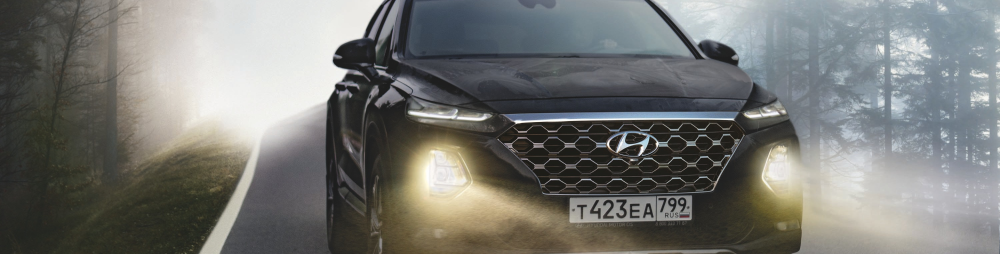
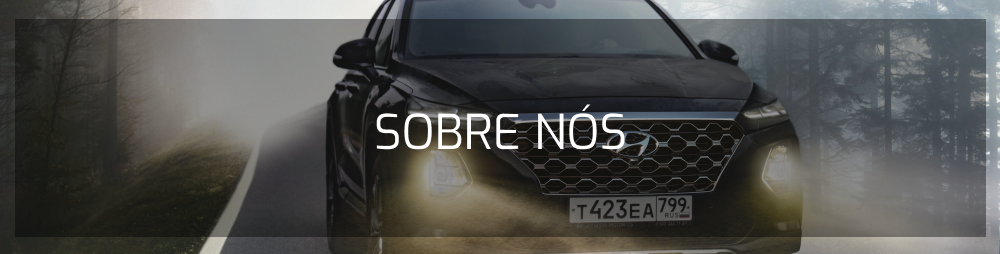
Add files via upload

diff --git a/sobre.html b/sobre.html
@@ -37,10 +37,14 @@
         </div>
     </header>
 
-    <div class="banner">
+    <!--<div class="banner">
         <img src="imagens/sobre/01.png" alt="imagem">
-    </div>
+    </div>-->
 
+    <div class="bgheader">
+
+    </div>
+    
     <main class="content page sobre">
 
         <aside class="sidebar">
@@ -54,7 +58,7 @@
             <br>
             <p>Lorem ipsum dolor sit amet consectetur adipisicing elit. Libero deleniti ut incidunt labore ex sapiente cum, in laborum voluptates? Optio expedita possimus neque quibusdam repudiandae perferendis, illum earum. Quo, atque? Lorem ipsum dolor sit amet consectetur, adipisicing elit. Incidunt iste adipisci pariatur necessitatibus a optio laboriosam corrupti exercitationem. Corrupti amet cumque aperiam modi quaerat similique assumenda corporis ea, eum eos. Lorem ipsum dolor sit amet consectetur adipisicing elit. Deserunt corporis, maxime sit, eveniet voluptatum eum vitae quis ea veniam laborum fugit reiciendis assumenda! Tempore quod mollitia cupiditate deserunt odit. Voluptatum.lO Lorem ipsum dolor sit amet consectetur adipisicing elit. Culpa nisi maiores voluptatem aliquam dolores omnis quo pariatur inventore consequatur iste! Tempora reprehenderit voluptatum optio ad ipsum nemo consequatur voluptatibus repudiandae!</p>
 
-            <img src="imagens/sobre/02.png" alt="foto carro">
+            <img src="imagens/sobre/02.png" id="imgg" alt="foto carro">
         </div>
     </main>
 

diff --git a/css/style.css b/css/style.css
@@ -260,9 +260,30 @@ footer ul li{
     height: 240px;
     text-align: left;
     font-size: 40px;
-    border-left: 5px solid red;
-    line-height: 50px;
-    font-weight: bold;
+    border-left: 4px solid #4f2579;
+    line-height: 53px;
+    font-weight: 600;
     padding: 0 38px;
     padding-top: 20px;
+    float: left;
+    clear: both;
 }
+
+.info{
+    width: 950px;
+    text-indent: 50px;
+    display: inline-block;
+    text-align: justify;
+}
+
+#imgg{
+    width: 950px;
+    padding-top: 70px;
+}
+
+.bgheader{
+   /* background: url(../img/bgsobre.png) 50% -112px / cover no-repeat fixed;*/
+    height: 200px;
+    margin: 20px;   
+} 
+
